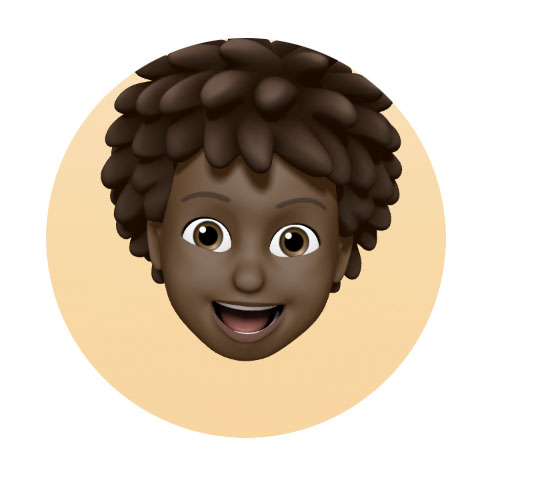
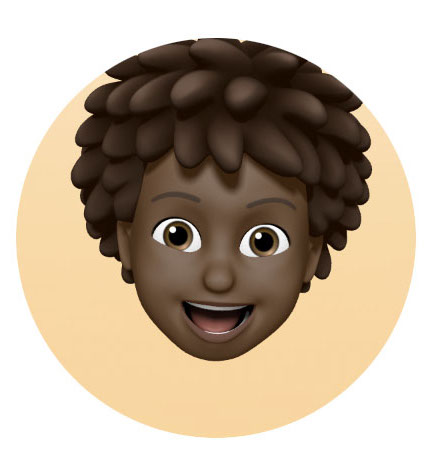
Save

diff --git a/index.html b/index.html
@@ -45,7 +45,7 @@
 
 <div class="parallax" data-parallax="scroll" data-z-index="1" src="social_media_background.jpeg">
     <div class="paratext">
-        <img class = "outline" src = "me_icon.jpeg">
+        <img class="outline" src="me_icon.png">
         <h1 data-aos="fade-down" class="para1">Hi, I'm Muhiim</h1>
         <h3 data-aos="fade-down" class="para2">a UI/UX student at Brown
         </h3>
@@ -55,8 +55,9 @@
 
 
 <!--projects-->
-<h2 id="projects">My projects</h2>
 <hr>
+<h2 id="projects">My projects</h2>
+
 <div class="flex-container">
     <div class="image-container">
         <a href="https://hungrycat416.github.io/personas/">

diff --git a/style.css b/style.css
@@ -30,7 +30,7 @@ h2 {
 }
 
 .image-container {
-    width: 40%;
+    width: 45%;
     padding: 20px;
     margin: 2%;
     /* border: 1px solid #d9d9d9; */
@@ -49,6 +49,7 @@ h2 {
     min-height: 550px;
     background: transparent;
     padding: 20px;
+    background-color: lavender;
 }
 
 .projectParallax {
